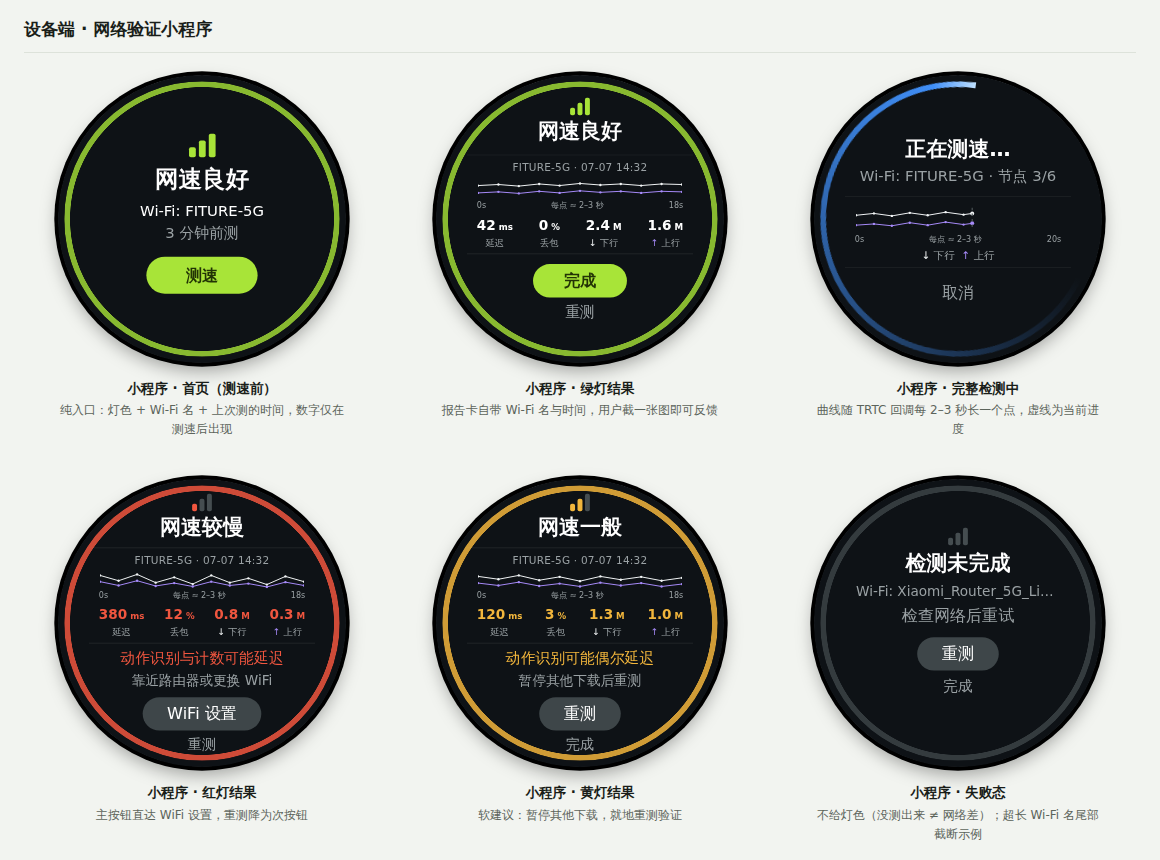
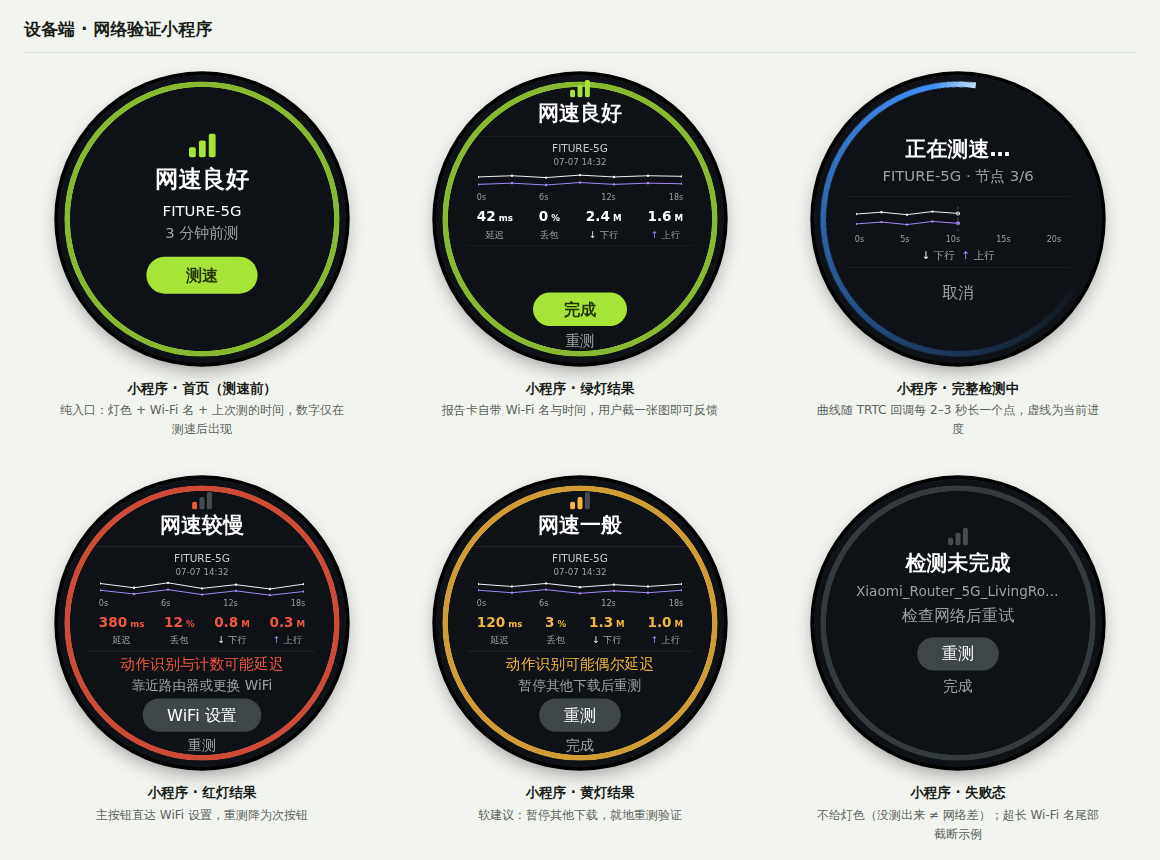
Two-line report header, real second ticks, fixed action zone
- Header: SSID on its own truncating line, date/time on a second line
  that can never be pushed out; drop the redundant "Wi-Fi:" prefix on
  every screen
- Time axis: real second ticks (0/6/12/18s results, 0-20s testing)
  replacing the interval note; waveforms regenerated as 7 samples
  every 3s so dots land on the tick scale (5 of 9 during testing)
- Impact + advice live in a fixed-height notes zone present on all
  result states (empty on green), so primary/secondary buttons sit at
  identical positions across green/yellow/red - no shifting between
  retests; one-line copy budget (CN<=14, EN<=30 chars), marquee
  rejected (unreadable at distance, breaks screenshot-as-report)
- PRD A4.3/A4.7/A4.8 updated with the decisions and trade-off notes

Claude-Session: https://claude.ai/code/session_01GK61VJL6HvXSFdCeuPzjiU

diff --git a/Demo-界面交互UI设计.html b/Demo-界面交互UI设计.html
@@ -77,9 +77,10 @@
   .rc-metrics .v { font-size: 22px; font-weight: 600; }
   .rc-metrics .v span { font-size: 14px; }
   .rc-metrics .k { font-size: 15px; color: var(--dev-sub); margin-top: 2px; }
-  .rc-head { font-size: 17px; color: var(--dev-sub); letter-spacing: .02em; margin-bottom: 5px; display: flex; align-items: baseline; max-width: 100%; }
-  .rc-head .ssid { overflow: hidden; text-overflow: ellipsis; white-space: nowrap; max-width: 200px; }
-  .rc-head .dt { flex: none; }
+  .rc-head { font-size: 17px; color: #c6ccce; max-width: 100%; line-height: 1.3; }
+  .rc-head .ssid { display: block; overflow: hidden; text-overflow: ellipsis; white-space: nowrap; max-width: 100%; }
+  .rc-date { font-size: 14px; color: var(--dev-sub); line-height: 1.3; margin: 1px 0 3px; }
+  .rc-notes { height: 76px; display: flex; flex-direction: column; align-items: center; justify-content: center; }
   .rc-axis { display: flex; justify-content: space-between; width: 100%; font-size: 13px; color: var(--dev-sub); margin-top: 2px; }
   .status-line { display: flex; align-items: center; justify-content: center; gap: 12px; min-height: 56px; font-size: 27px; color: #d4d8da; }
 
@@ -279,7 +280,7 @@
         <div style="flex:.85"></div>
         <span class="bars lg"><i class="b1" style="background:var(--dev-good)"></i><i class="b2" style="background:var(--dev-good)"></i><i class="b3" style="background:var(--dev-good)"></i></span>
         <div class="big-status" data-en="Good speed">网速良好</div>
-        <div style="font-size:24px; color:var(--dev-text); margin-top:8px">Wi-Fi: FITURE-5G</div>
+        <div style="font-size:24px; color:var(--dev-text); margin-top:8px">FITURE-5G</div>
         <div style="font-size:24px; color:var(--dev-sub); margin-top:2px" data-en="Tested 3 min ago">3 分钟前测</div>
         <div class="btn primary" style="margin-top:20px; padding:12px 64px" data-en="Speed test">测速</div>
         <div style="flex:1"></div>
@@ -290,12 +291,12 @@
     <figure class="shot">
       <div class="device"><div class="screen">
         <div class="ring ok"></div>
-        <div style="flex:.42"></div>
+        <div style="flex:.36"></div>
         <span class="bars"><i class="b1" style="background:var(--dev-good)"></i><i class="b2" style="background:var(--dev-good)"></i><i class="b3" style="background:var(--dev-good)"></i></span>
         <div class="big-status" style="margin-top:2px; font-size:34px" data-en="Good speed">网速良好</div>
         <div class="report-card" style="margin-top:14px">
-          <div class="rc-head"><span class="ssid">FITURE-5G</span><span class="dt">&nbsp;· 07-07 14:32</span></div>
-          <svg width="330" height="34" viewBox="0 0 330 34"><polyline points="0,11.9 33,10.2 66,12.8 99,9.3 132,11.9 165,8.5 198,11.0 231,9.3 264,11.9 297,9.3 330,10.2" fill="none" stroke="#f2f5f6" stroke-width="1.6" stroke-linecap="round"/><circle cx="0" cy="11.9" r="1.9" fill="#f2f5f6"/><circle cx="33" cy="10.2" r="1.9" fill="#f2f5f6"/><circle cx="66" cy="12.8" r="1.9" fill="#f2f5f6"/><circle cx="99" cy="9.3" r="1.9" fill="#f2f5f6"/><circle cx="132" cy="11.9" r="1.9" fill="#f2f5f6"/><circle cx="165" cy="8.5" r="1.9" fill="#f2f5f6"/><circle cx="198" cy="11.0" r="1.9" fill="#f2f5f6"/><circle cx="231" cy="9.3" r="1.9" fill="#f2f5f6"/><circle cx="264" cy="11.9" r="1.9" fill="#f2f5f6"/><circle cx="297" cy="9.3" r="1.9" fill="#f2f5f6"/><circle cx="330" cy="10.2" r="1.9" fill="#f2f5f6"/><polyline points="0,23.8 33,22.1 66,24.6 99,21.2 132,23.8 165,20.4 198,22.9 231,21.2 264,23.8 297,21.2 330,22.1" fill="none" stroke="#a78bfa" stroke-width="1.6" stroke-linecap="round"/><circle cx="0" cy="23.8" r="1.9" fill="#a78bfa"/><circle cx="33" cy="22.1" r="1.9" fill="#a78bfa"/><circle cx="66" cy="24.6" r="1.9" fill="#a78bfa"/><circle cx="99" cy="21.2" r="1.9" fill="#a78bfa"/><circle cx="132" cy="23.8" r="1.9" fill="#a78bfa"/><circle cx="165" cy="20.4" r="1.9" fill="#a78bfa"/><circle cx="198" cy="22.9" r="1.9" fill="#a78bfa"/><circle cx="231" cy="21.2" r="1.9" fill="#a78bfa"/><circle cx="264" cy="23.8" r="1.9" fill="#a78bfa"/><circle cx="297" cy="21.2" r="1.9" fill="#a78bfa"/><circle cx="330" cy="22.1" r="1.9" fill="#a78bfa"/></svg><div class="rc-axis"><span>0s</span><span data-en="one dot every 2–3 s">每点 ≈ 2–3 秒</span><span>18s</span></div>
+          <div class="rc-head"><span class="ssid">FITURE-5G</span></div><div class="rc-date">07-07 14:32</div>
+          <svg width="330" height="34" viewBox="0 0 330 34"><polyline points="0,12 55,10 110,13 165,9 220,12 275,10 330,11" fill="none" stroke="#f2f5f6" stroke-width="1.6" stroke-linecap="round"/><circle cx="0" cy="12" r="1.9" fill="#f2f5f6"/><circle cx="55" cy="10" r="1.9" fill="#f2f5f6"/><circle cx="110" cy="13" r="1.9" fill="#f2f5f6"/><circle cx="165" cy="9" r="1.9" fill="#f2f5f6"/><circle cx="220" cy="12" r="1.9" fill="#f2f5f6"/><circle cx="275" cy="10" r="1.9" fill="#f2f5f6"/><circle cx="330" cy="11" r="1.9" fill="#f2f5f6"/><polyline points="0,24 55,22 110,25 165,21 220,24 275,22 330,23" fill="none" stroke="#a78bfa" stroke-width="1.6" stroke-linecap="round"/><circle cx="0" cy="24" r="1.9" fill="#a78bfa"/><circle cx="55" cy="22" r="1.9" fill="#a78bfa"/><circle cx="110" cy="25" r="1.9" fill="#a78bfa"/><circle cx="165" cy="21" r="1.9" fill="#a78bfa"/><circle cx="220" cy="24" r="1.9" fill="#a78bfa"/><circle cx="275" cy="22" r="1.9" fill="#a78bfa"/><circle cx="330" cy="23" r="1.9" fill="#a78bfa"/></svg><div class="rc-axis"><span>0s</span><span>6s</span><span>12s</span><span>18s</span></div>
           <div class="rc-metrics">
             <div><div class="v">42<span> ms</span></div><div class="k" data-en="Latency">延迟</div></div>
             <div><div class="v">0<span> %</span></div><div class="k" data-en="Loss">丢包</div></div>
@@ -303,9 +304,10 @@
             <div><div class="v">1.6<span> M</span></div><div class="k"><span style="color:#a78bfa">↑</span> <span data-en="Up">上行</span></div></div>
           </div>
           </div>
-        <div class="btn primary" style="margin-top:16px; padding:9px 50px" data-en="Done">完成</div>
+        <div class="rc-notes"></div>
+        <div class="btn primary" style="margin-top:0; padding:9px 50px" data-en="Done">完成</div>
         <div style="font-size:24px; color:var(--dev-sub); margin-top:8px" data-en="Retest">重测</div>
-        <div style="flex:.72"></div>
+        <div style="flex:.85"></div>
       </div></div>
       <figcaption><b>小程序 · 绿灯结果</b><span>报告卡自带 Wi-Fi 名与时间，用户截一张图即可反馈</span></figcaption>
     </figure>
@@ -315,9 +317,9 @@
         <div class="ring scan"></div>
         <div style="flex:.9"></div>
         <div class="big-status" style="font-size:34px" data-en="Testing speed…">正在测速…</div>
-        <div style="font-size:24px; color:var(--dev-sub); margin-top:4px" data-en="Wi-Fi: FITURE-5G · node 3/6">Wi-Fi: FITURE-5G · 节点 3/6</div>
+        <div style="font-size:24px; color:var(--dev-sub); margin-top:4px" data-en="FITURE-5G · node 3/6">FITURE-5G · 节点 3/6</div>
         <div class="report-card" style="margin-top:14px; padding-top:14px">
-          <svg width="330" height="44" viewBox="0 0 330 44"><polyline points="0,16.0 29,13.0 58,17.0 87,12.0 116,16.0 145,11.0 174,15.0 188,13.0" fill="none" stroke="#f2f5f6" stroke-width="1.6" stroke-linecap="round"/><circle cx="0" cy="16.0" r="1.9" fill="#f2f5f6"/><circle cx="29" cy="13.0" r="1.9" fill="#f2f5f6"/><circle cx="58" cy="17.0" r="1.9" fill="#f2f5f6"/><circle cx="87" cy="12.0" r="1.9" fill="#f2f5f6"/><circle cx="116" cy="16.0" r="1.9" fill="#f2f5f6"/><circle cx="145" cy="11.0" r="1.9" fill="#f2f5f6"/><circle cx="174" cy="15.0" r="1.9" fill="#f2f5f6"/><circle cx="188" cy="13.0" r="3.2" fill="#f2f5f6"/><polyline points="0,32.0 29,30.0 58,33.0 87,28.0 116,32.0 145,27.0 174,31.0 188,29.0" fill="none" stroke="#a78bfa" stroke-width="1.6" stroke-linecap="round"/><circle cx="0" cy="32.0" r="1.9" fill="#a78bfa"/><circle cx="29" cy="30.0" r="1.9" fill="#a78bfa"/><circle cx="58" cy="33.0" r="1.9" fill="#a78bfa"/><circle cx="87" cy="28.0" r="1.9" fill="#a78bfa"/><circle cx="116" cy="32.0" r="1.9" fill="#a78bfa"/><circle cx="145" cy="27.0" r="1.9" fill="#a78bfa"/><circle cx="174" cy="31.0" r="1.9" fill="#a78bfa"/><circle cx="188" cy="29.0" r="3.2" fill="#a78bfa"/><line x1="188" y1="4" x2="188" y2="40" stroke="#4a5254" stroke-width="2" stroke-dasharray="4 5"/></svg><div class="rc-axis"><span>0s</span><span data-en="one dot every 2–3 s">每点 ≈ 2–3 秒</span><span>20s</span></div>
+          <svg width="330" height="44" viewBox="0 0 330 44"><polyline points="0,14 41.25,11 82.5,15 123.75,10 165,13" fill="none" stroke="#f2f5f6" stroke-width="1.6" stroke-linecap="round"/><circle cx="0" cy="14" r="1.9" fill="#f2f5f6"/><circle cx="41.25" cy="11" r="1.9" fill="#f2f5f6"/><circle cx="82.5" cy="15" r="1.9" fill="#f2f5f6"/><circle cx="123.75" cy="10" r="1.9" fill="#f2f5f6"/><circle cx="165" cy="13" r="1.9" fill="#f2f5f6"/><polyline points="0,30 41.25,27 82.5,31 123.75,26 165,29" fill="none" stroke="#a78bfa" stroke-width="1.6" stroke-linecap="round"/><circle cx="0" cy="30" r="1.9" fill="#a78bfa"/><circle cx="41.25" cy="27" r="1.9" fill="#a78bfa"/><circle cx="82.5" cy="31" r="1.9" fill="#a78bfa"/><circle cx="123.75" cy="26" r="1.9" fill="#a78bfa"/><circle cx="165" cy="29" r="1.9" fill="#a78bfa"/><circle cx="165" cy="13" r="3.2" fill="#f2f5f6"/><circle cx="165" cy="29" r="3.2" fill="#a78bfa"/><line x1="165" y1="2" x2="165" y2="42" stroke="#4a5254" stroke-width="2" stroke-dasharray="4 5"/></svg><div class="rc-axis"><span>0s</span><span>5s</span><span>10s</span><span>15s</span><span>20s</span></div>
           <div style="font-size:17px; color:var(--dev-sub); margin-top:6px"><span style="color:#f2f5f6">↓</span> <span data-en="Down">下行</span>&nbsp;&nbsp;<span style="color:#a78bfa">↑</span> <span data-en="Up">上行</span></div>
         </div>
         <div style="font-size:26px; color:var(--dev-sub); margin-top:22px" data-en="Cancel">取消</div>
@@ -333,8 +335,8 @@
         <span class="bars"><i class="b1" style="background:var(--dev-bad)"></i><i class="b2 dim"></i><i class="b3 dim"></i></span>
         <div class="big-status" style="margin-top:2px; font-size:34px" data-en="Slow speed">网速较慢</div>
         <div class="report-card" style="margin-top:10px; padding-top:8px">
-          <div class="rc-head"><span class="ssid">FITURE-5G</span><span class="dt">&nbsp;· 07-07 14:32</span></div>
-          <svg width="330" height="28" viewBox="0 0 330 28"><polyline points="0,7.0 30,15.6 60,5.4 90,18.7 120,10.1 150,21.0 180,7.0 210,18.7 240,11.7 270,21.8 300,8.6 330,17.1" fill="none" stroke="#f2f5f6" stroke-width="1.6" stroke-linecap="round"/><circle cx="0" cy="7.0" r="1.9" fill="#f2f5f6"/><circle cx="30" cy="15.6" r="1.9" fill="#f2f5f6"/><circle cx="60" cy="5.4" r="1.9" fill="#f2f5f6"/><circle cx="90" cy="18.7" r="1.9" fill="#f2f5f6"/><circle cx="120" cy="10.1" r="1.9" fill="#f2f5f6"/><circle cx="150" cy="21.0" r="1.9" fill="#f2f5f6"/><circle cx="180" cy="7.0" r="1.9" fill="#f2f5f6"/><circle cx="210" cy="18.7" r="1.9" fill="#f2f5f6"/><circle cx="240" cy="11.7" r="1.9" fill="#f2f5f6"/><circle cx="270" cy="21.8" r="1.9" fill="#f2f5f6"/><circle cx="300" cy="8.6" r="1.9" fill="#f2f5f6"/><circle cx="330" cy="17.1" r="1.9" fill="#f2f5f6"/><polyline points="0,17.1 30,23.3 60,15.6 90,24.1 120,19.4 150,24.9 180,17.1 210,23.3 240,20.2 270,25.7 300,17.9 330,23.3" fill="none" stroke="#a78bfa" stroke-width="1.6" stroke-linecap="round"/><circle cx="0" cy="17.1" r="1.9" fill="#a78bfa"/><circle cx="30" cy="23.3" r="1.9" fill="#a78bfa"/><circle cx="60" cy="15.6" r="1.9" fill="#a78bfa"/><circle cx="90" cy="24.1" r="1.9" fill="#a78bfa"/><circle cx="120" cy="19.4" r="1.9" fill="#a78bfa"/><circle cx="150" cy="24.9" r="1.9" fill="#a78bfa"/><circle cx="180" cy="17.1" r="1.9" fill="#a78bfa"/><circle cx="210" cy="23.3" r="1.9" fill="#a78bfa"/><circle cx="240" cy="20.2" r="1.9" fill="#a78bfa"/><circle cx="270" cy="25.7" r="1.9" fill="#a78bfa"/><circle cx="300" cy="17.9" r="1.9" fill="#a78bfa"/><circle cx="330" cy="23.3" r="1.9" fill="#a78bfa"/></svg><div class="rc-axis"><span>0s</span><span data-en="one dot every 2–3 s">每点 ≈ 2–3 秒</span><span>18s</span></div>
+          <div class="rc-head"><span class="ssid">FITURE-5G</span></div><div class="rc-date">07-07 14:32</div>
+          <svg width="330" height="28" viewBox="0 0 330 28"><polyline points="0,7 55,14 110,6 165,15 220,9 275,16 330,8" fill="none" stroke="#f2f5f6" stroke-width="1.6" stroke-linecap="round"/><circle cx="0" cy="7" r="1.9" fill="#f2f5f6"/><circle cx="55" cy="14" r="1.9" fill="#f2f5f6"/><circle cx="110" cy="6" r="1.9" fill="#f2f5f6"/><circle cx="165" cy="15" r="1.9" fill="#f2f5f6"/><circle cx="220" cy="9" r="1.9" fill="#f2f5f6"/><circle cx="275" cy="16" r="1.9" fill="#f2f5f6"/><circle cx="330" cy="8" r="1.9" fill="#f2f5f6"/><polyline points="0,18 55,24 110,17 165,25 220,19 275,26 330,20" fill="none" stroke="#a78bfa" stroke-width="1.6" stroke-linecap="round"/><circle cx="0" cy="18" r="1.9" fill="#a78bfa"/><circle cx="55" cy="24" r="1.9" fill="#a78bfa"/><circle cx="110" cy="17" r="1.9" fill="#a78bfa"/><circle cx="165" cy="25" r="1.9" fill="#a78bfa"/><circle cx="220" cy="19" r="1.9" fill="#a78bfa"/><circle cx="275" cy="26" r="1.9" fill="#a78bfa"/><circle cx="330" cy="20" r="1.9" fill="#a78bfa"/></svg><div class="rc-axis"><span>0s</span><span>6s</span><span>12s</span><span>18s</span></div>
           <div class="rc-metrics">
             <div><div class="v" style="color:var(--dev-bad)">380<span> ms</span></div><div class="k" data-en="Latency">延迟</div></div>
             <div><div class="v" style="color:var(--dev-bad)">12<span> %</span></div><div class="k" data-en="Loss">丢包</div></div>
@@ -342,9 +344,9 @@
             <div><div class="v" style="color:var(--dev-bad)">0.3<span> M</span></div><div class="k"><span style="color:#a78bfa">↑</span> <span data-en="Up">上行</span></div></div>
           </div>
           </div>
-        <div style="font-size:24px; color:var(--dev-bad); margin-top:8px" data-en="Tracking & counting may lag">动作识别与计数可能延迟</div>
-        <div class="advice" style="margin-top:3px; font-size:22px; width:370px" data-en="Move closer or switch Wi-Fi">靠近路由器或更换 WiFi</div>
-        <div class="btn" style="margin-top:10px; padding:9px 40px" data-en="Wi-Fi Settings">WiFi 设置</div>
+        <div class="rc-notes"><div style="font-size:24px; color:var(--dev-bad)" data-en="Tracking & counting may lag">动作识别与计数可能延迟</div>
+        <div class="advice" style="margin-top:3px; font-size:22px; width:370px" data-en="Move closer or switch Wi-Fi">靠近路由器或更换 WiFi</div></div>
+        <div class="btn" style="margin-top:0; padding:9px 40px" data-en="Wi-Fi Settings">WiFi 设置</div>
         <div style="font-size:23px; color:var(--dev-sub); margin-top:6px" data-en="Retest">重测</div>
         <div style="flex:.6"></div>
       </div></div>
@@ -358,8 +360,8 @@
         <span class="bars"><i class="b1" style="background:var(--dev-warn)"></i><i class="b2" style="background:var(--dev-warn)"></i><i class="b3 dim"></i></span>
         <div class="big-status" style="margin-top:2px; font-size:34px" data-en="Fair speed">网速一般</div>
         <div class="report-card" style="margin-top:10px; padding-top:8px">
-          <div class="rc-head"><span class="ssid">FITURE-5G</span><span class="dt">&nbsp;· 07-07 14:32</span></div>
-          <svg width="330" height="28" viewBox="0 0 330 28"><polyline points="0,8.6 33,13.2 66,7.0 99,14.8 132,9.3 165,16.3 198,8.6 231,14.0 264,9.3 297,15.6 330,10.9" fill="none" stroke="#f2f5f6" stroke-width="1.6" stroke-linecap="round"/><circle cx="0" cy="8.6" r="1.9" fill="#f2f5f6"/><circle cx="33" cy="13.2" r="1.9" fill="#f2f5f6"/><circle cx="66" cy="7.0" r="1.9" fill="#f2f5f6"/><circle cx="99" cy="14.8" r="1.9" fill="#f2f5f6"/><circle cx="132" cy="9.3" r="1.9" fill="#f2f5f6"/><circle cx="165" cy="16.3" r="1.9" fill="#f2f5f6"/><circle cx="198" cy="8.6" r="1.9" fill="#f2f5f6"/><circle cx="231" cy="14.0" r="1.9" fill="#f2f5f6"/><circle cx="264" cy="9.3" r="1.9" fill="#f2f5f6"/><circle cx="297" cy="15.6" r="1.9" fill="#f2f5f6"/><circle cx="330" cy="10.9" r="1.9" fill="#f2f5f6"/><polyline points="0,19.4 33,23.3 66,17.9 99,24.1 132,20.2 165,24.9 198,18.7 231,23.3 264,19.4 297,24.9 330,21.0" fill="none" stroke="#a78bfa" stroke-width="1.6" stroke-linecap="round"/><circle cx="0" cy="19.4" r="1.9" fill="#a78bfa"/><circle cx="33" cy="23.3" r="1.9" fill="#a78bfa"/><circle cx="66" cy="17.9" r="1.9" fill="#a78bfa"/><circle cx="99" cy="24.1" r="1.9" fill="#a78bfa"/><circle cx="132" cy="20.2" r="1.9" fill="#a78bfa"/><circle cx="165" cy="24.9" r="1.9" fill="#a78bfa"/><circle cx="198" cy="18.7" r="1.9" fill="#a78bfa"/><circle cx="231" cy="23.3" r="1.9" fill="#a78bfa"/><circle cx="264" cy="19.4" r="1.9" fill="#a78bfa"/><circle cx="297" cy="24.9" r="1.9" fill="#a78bfa"/><circle cx="330" cy="21.0" r="1.9" fill="#a78bfa"/></svg><div class="rc-axis"><span>0s</span><span data-en="one dot every 2–3 s">每点 ≈ 2–3 秒</span><span>18s</span></div>
+          <div class="rc-head"><span class="ssid">FITURE-5G</span></div><div class="rc-date">07-07 14:32</div>
+          <svg width="330" height="28" viewBox="0 0 330 28"><polyline points="0,8 55,12 110,7 165,13 220,9 275,12 330,8" fill="none" stroke="#f2f5f6" stroke-width="1.6" stroke-linecap="round"/><circle cx="0" cy="8" r="1.9" fill="#f2f5f6"/><circle cx="55" cy="12" r="1.9" fill="#f2f5f6"/><circle cx="110" cy="7" r="1.9" fill="#f2f5f6"/><circle cx="165" cy="13" r="1.9" fill="#f2f5f6"/><circle cx="220" cy="9" r="1.9" fill="#f2f5f6"/><circle cx="275" cy="12" r="1.9" fill="#f2f5f6"/><circle cx="330" cy="8" r="1.9" fill="#f2f5f6"/><polyline points="0,18 55,22 110,17 165,23 220,19 275,22 330,18" fill="none" stroke="#a78bfa" stroke-width="1.6" stroke-linecap="round"/><circle cx="0" cy="18" r="1.9" fill="#a78bfa"/><circle cx="55" cy="22" r="1.9" fill="#a78bfa"/><circle cx="110" cy="17" r="1.9" fill="#a78bfa"/><circle cx="165" cy="23" r="1.9" fill="#a78bfa"/><circle cx="220" cy="19" r="1.9" fill="#a78bfa"/><circle cx="275" cy="22" r="1.9" fill="#a78bfa"/><circle cx="330" cy="18" r="1.9" fill="#a78bfa"/></svg><div class="rc-axis"><span>0s</span><span>6s</span><span>12s</span><span>18s</span></div>
           <div class="rc-metrics">
             <div><div class="v" style="color:var(--dev-warn)">120<span> ms</span></div><div class="k" data-en="Latency">延迟</div></div>
             <div><div class="v" style="color:var(--dev-warn)">3<span> %</span></div><div class="k" data-en="Loss">丢包</div></div>
@@ -367,9 +369,9 @@
             <div><div class="v" style="color:var(--dev-warn)">1.0<span> M</span></div><div class="k"><span style="color:#a78bfa">↑</span> <span data-en="Up">上行</span></div></div>
           </div>
           </div>
-        <div style="font-size:24px; color:var(--dev-warn); margin-top:8px" data-en="Pose tracking may lag at times">动作识别可能偶尔延迟</div>
-        <div class="advice" style="margin-top:3px; font-size:22px; width:370px" data-en="Pause other downloads, retest">暂停其他下载后重测</div>
-        <div class="btn" style="margin-top:10px; padding:9px 40px" data-en="Retest">重测</div>
+        <div class="rc-notes"><div style="font-size:24px; color:var(--dev-warn)" data-en="Pose tracking may lag at times">动作识别可能偶尔延迟</div>
+        <div class="advice" style="margin-top:3px; font-size:22px; width:370px" data-en="Pause other downloads, retest">暂停其他下载后重测</div></div>
+        <div class="btn" style="margin-top:0; padding:9px 40px" data-en="Retest">重测</div>
         <div style="font-size:23px; color:var(--dev-sub); margin-top:6px" data-en="Done">完成</div>
         <div style="flex:.6"></div>
       </div></div>
@@ -382,7 +384,7 @@
         <div style="flex:.7"></div>
         <span class="bars"><i class="b1 dim"></i><i class="b2 dim"></i><i class="b3 dim"></i></span>
         <div class="big-status" style="font-size:34px; margin-top:6px" data-en="Test incomplete">检测未完成</div>
-        <div style="font-size:22px; color:var(--dev-sub); margin-top:6px; max-width:330px; overflow:hidden; text-overflow:ellipsis; white-space:nowrap">Wi-Fi: Xiaomi_Router_5G_LivingRoom_2401</div>
+        <div style="font-size:22px; color:var(--dev-sub); margin-top:6px; max-width:330px; overflow:hidden; text-overflow:ellipsis; white-space:nowrap">Xiaomi_Router_5G_LivingRoom_2401</div>
         <div class="advice" style="margin-top:4px" data-en="Check network and retry">检查网络后重试</div>
         <div class="btn" style="margin-top:16px; padding:9px 40px" data-en="Retest">重测</div>
         <div style="font-size:24px; color:var(--dev-sub); margin-top:9px" data-en="Done">完成</div>

diff --git a/PRD-atom网络状态检测与信号同步.md b/PRD-atom网络状态检测与信号同步.md
@@ -118,7 +118,7 @@ ATOM 是一台通过 WiFi 联网的嵌入式训练设备，上课时通过 TRTC 
 
 - **A4.1 首页 = 纯入口（测速前）**：灯色 bars + 一句话结论 + **当前 Wi-Fi 名（SSID）** + 副行数据时效（「刚刚更新」≤60 秒 /「N 分钟前测」≤5 分钟）+ 主按钮「测速」。SSID 必须外显——用户点进来看「网好不好」时往往不知道自己连的是哪个 WiFi，灯色结论必须挂在具体网络名下才可归因（与 B2 按 SSID 缓存一致）。**不展示任何数字指标**——常驻探测没有真实带宽，数字只在测速后出现，「测速前 = 入口、测速后 = 报告」天然可区分；缓存超 5 分钟不显示旧灯色，直接「检测中…」并刷新；
 - **A4.2 检测中**：标题「正在测速…」+ 副行「Wi-Fi: {SSID} · 节点 N / M」（按官方回调驱动，不做假进度）+ 报告卡内波形实时生长（↓ 灰白 = 下行、↑ 紫 = 上行，见 A4.7）+「取消」（调用 `stopSpeedTest`）；按钮防重入（官方限制同一时间仅一个测速任务）；
-- **A4.3 结果页信息分组（四组，组间距 > 组内距）**：① 结论（bars + 一句话）→ ② **报告卡**，卡内自上而下：**表头 = SSID + 日期时间**（「FITURE-5G · 07-07 14:32」——带日期是为了反馈截图能和后端日志对上，方便 debug）→ 波形定格 + 时间轴 → 四指标一行：延迟 / 丢包 / ↓ 下行 / ↑ 上行（标签带曲线同色箭头；-1 显示「—」；着色标准见下表）→ ③ 影响 + 建议（仅黄 / 红：影响 = 对上课意味着什么，如「动作识别可能延迟」；建议 = 怎么办）→ ④ 操作。**一张报告卡 = 一份完整测速报告，截图即可反馈客服**（截图给人看，上报给系统看）。稳定性派生标签：样本方差超阈值时卡下方显示「网络波动较大」。
+- **A4.3 结果页信息分组（四组，组间距 > 组内距）**：① 结论（bars + 一句话）→ ② **报告卡**，卡内自上而下：**表头两行——第 1 行 SSID（超长截断）、第 2 行日期时间（独占一行，永不被 SSID 挤掉）**，不加「Wi-Fi:」前缀（上下文已明确，标签属冗余；带日期是为了反馈截图能和后端日志对上，方便 debug）→ 波形定格 + 时间轴 → 四指标一行：延迟 / 丢包 / ↓ 下行 / ↑ 上行（标签带曲线同色箭头；-1 显示「—」；着色标准见下表）→ ③ 影响 + 建议（仅黄 / 红；**各固定一行，字数预算：中文 ≤ 14 全角、EN ≤ 30 字符**——这两处是我们自己维护的固定文案集而非动态内容，靠文案表管控长度即可；**不采用跑马灯**：滚动文字在 1–2 米观看距离难读，且截图会截到半句话，破坏「截图即报告」）→ ④ 操作。**影响 / 建议 + 按钮组成固定高度的操作区，主按钮与次按钮的位置在绿 / 黄 / 红 / 失败四态间完全一致**（绿灯无影响建议时留空占位）——重测循环里按钮不位移，防误触、建立肌肉记忆。**一张报告卡 = 一份完整测速报告，截图即可反馈客服**（截图给人看，上报给系统看）。稳定性派生标签：样本方差超阈值时卡下方显示「网络波动较大」。
 
   **指标着色标准**（阈值与模块 B4 同源、OTA 可调；数值默认白色，超阈值才变色）：
 
@@ -148,14 +148,14 @@ ATOM 是一台通过 WiFi 联网的嵌入式训练设备，上课时通过 TRTC 
   - **分隔线而非容器**：报告卡不加底色容器，改用**上下各一条 1px 细分隔线**（白 10% 不透明度）在纯黑背景上界定报告区——圆屏面积小，整块浅色底框显碎，细线既分组又不添料；
   - **笔触**：折线线宽约 1.5px、样本点 r ≈ 2px、最新点 r ≈ 3px——466 圆屏物理尺寸小，线过粗会显粗糙；屏缘状态色环宽度约 10px，只作氛围提示不承载数据，过宽挤占内容区；
   - **时间密度**：一个样本点 = 一次 TRTC `onSpeedTestResult` 进度回调，官方节奏约每 2–3 秒一点、整次 10–20 秒，共约 5–8 点；备选文件测速路径按 1 秒一个吞吐量桶采样（约 15–30 点）。点即真实样本，**只画折线不做平滑插值**（不虚构数据），且**每个样本位置画一个小圆点**（r ≈ 2px）——点标出「哪一刻真的回传过数据」，线只负责连接；
-  - **实时刷新**：检测中每收到一个回调就在曲线右端追加一点（可 300ms 缓动画入），**最新一点放大显示**（r ≈ 4px，标记「刚回传」），x 轴 = 已用时长（0 → 预计总时长，定宽不滚动），虚线游标标记当前进度；**波形下沿标注时间轴**：左右两端 `0s` / 总时长，中间注明采样间隔「每点 ≈ 2–3 秒」，让读图者不用猜横轴是什么；回调间隔内数值不做假动画。带宽值在延迟阶段尚无效（-1），曲线从首个有效带宽样本开始画；
+  - **实时刷新**：检测中每收到一个回调就在曲线右端追加一点（可 300ms 缓动画入），**最新一点放大显示**（r ≈ 4px，标记「刚回传」），x 轴 = 已用时长（0 → 预计总时长，定宽不滚动），虚线游标标记当前进度；**波形下沿标注时间轴：4–5 个真实秒数刻度**（结果页 `0s / 6s / 12s / 18s`，检测中 `0s / 5s / 10s / 15s / 20s`），采样点落在刻度尺上，用户能读出「掉速发生在第几秒」。**决策记录**：逐点标秒数太挤（5–8 点 × 每标签约 24px，330px 宽放不下且噪）；只写「每点 ≈ 2–3 秒」信息量不足（读不出事件位置）；均匀秒数刻度两者兼顾——采样间隔属工程参数，写在本 PRD 与上报字段里，不上屏；回调间隔内数值不做假动画。带宽值在延迟阶段尚无效（-1），曲线从首个有效带宽样本开始画；
   - **定格复用**：测速结束波形数据原样冻结进结果页报告卡（同一份数据、同一组件），不重绘不重采样；
   - **字号层级**（466px 屏基准，自大到小）：结论标题 34 > 影响 24 > 指标数值 22 > 表头 SSID/时间 17 > 指标标签 15 > 时间轴 13——结论是第一眼信息、影响其次，测速数字是佐证细节；正文/按钮 26；组间距大于组内距，宁可留白也不顶到表圈。
 - **A4.8 边界 · 空态 · 显示保护**（Demo 失败态屏含超长 SSID 截断示例）：
 
 | 场景 | 处理 |
 | --- | --- |
-| **超长 SSID**（中文 / emoji / 32 字节长名） | SSID 弹性截断加省略号，**日期时间永不截断**（表头 = 弹性 SSID + 固定宽度时间两段布局）；报告卡表头 SSID 上限约 12 全角字符；首页 / 检测中 / WiFi 列表行同规则 |
+| **超长 SSID**（中文 / emoji / 32 字节长名） | 表头两行制：SSID 独占第 1 行、超宽尾部省略号（可用满卡宽约 19 半角字符）；日期时间独立第 2 行，**任何情况下完整可见**；首页 / 检测中 / WiFi 列表行同规则 |
 | 隐藏 SSID / 名称为空 | 显示占位「已连接网络」 |
 | **从未测过速**（新机 / 恢复出厂） | 首页三格全暗 +「尚未测速」，不显示时效行；主按钮「测速」不变 |
 | **未连接 WiFi 进入小程序** | 「未连接 WiFi」+ 主按钮「WiFi 设置」，隐藏测速按钮（测了也没有意义） |
